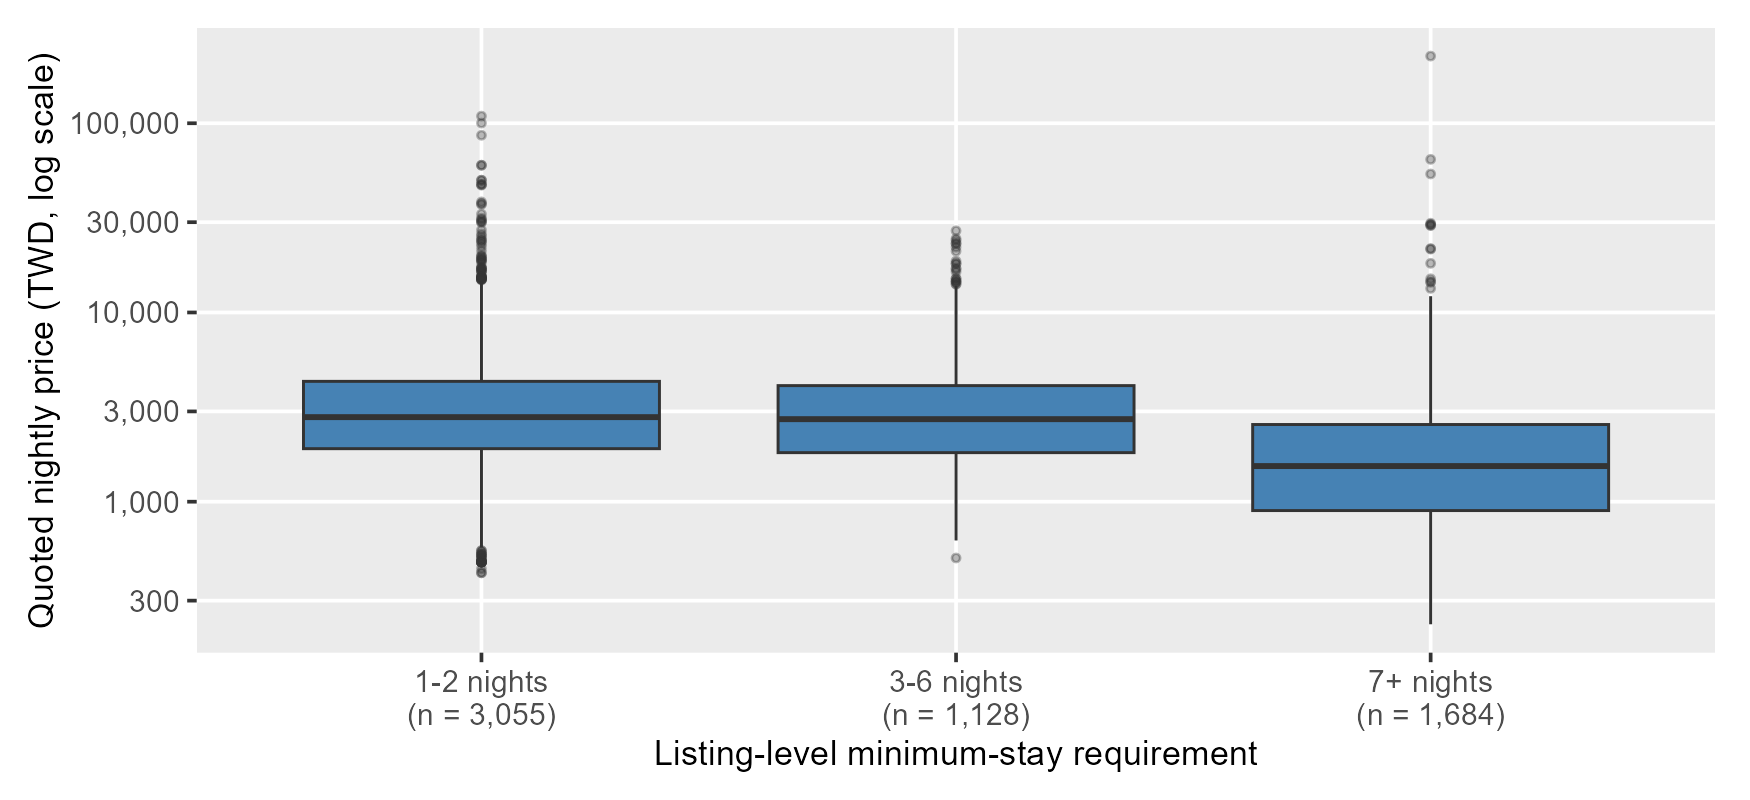
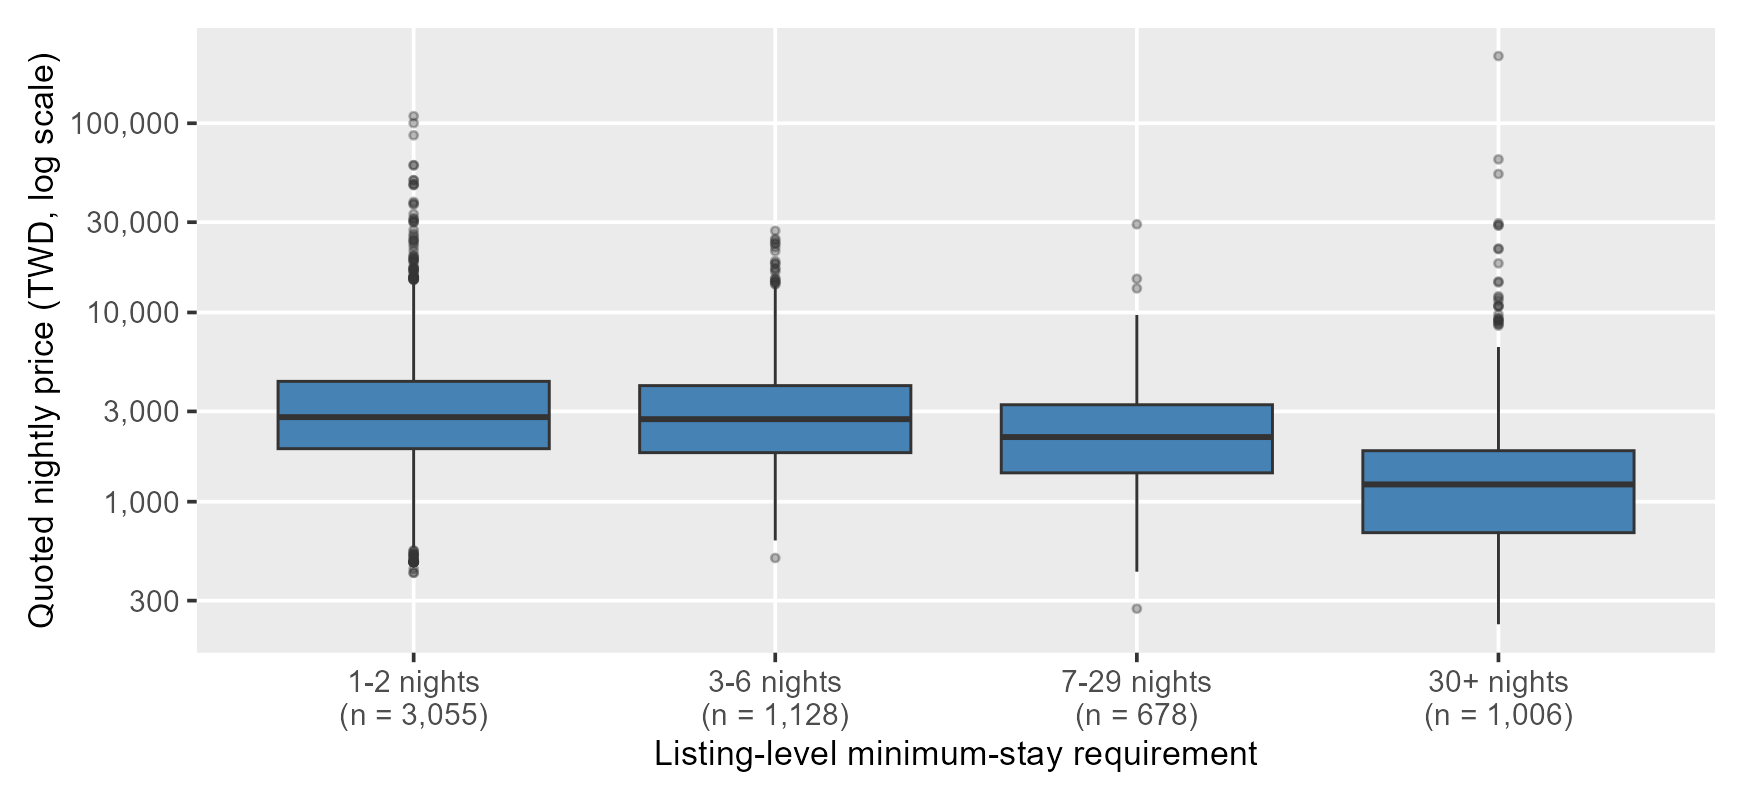
Refine minimum-stay groups and audit missing prices

diff --git a/data/processed/CODEBOOK.md b/data/processed/CODEBOOK.md
@@ -35,9 +35,9 @@ the minimum-stay rule is present.
 Figure 2 retains **5,867** listings with both a valid rule and a positive TWD price.
 There are **499 missing/unusable prices**, plus one additional listing with a
 valid price but a missing rule. No eligible positive prices are winsorized,
-trimmed, or dropped as outliers. The minimum-stay group counts in the data overview
-and summary CSV use 6,366 valid rules as denominator.
-
+trimmed, or dropped as outliers. Group shares in `figure_summary.csv` use the 6,366 valid minimum-stay
+rules as their denominator. Missing-price percentages in
+`stay_group_quality.csv` use the total listings within each group.
 ## calendar_monthly.csv
 
 Unit: a calendar month, including partial September months at the endpoints.
@@ -57,13 +57,39 @@ It summarizes all **2,323,955** original listing-date rows covering
 August 2027 price comparison in the proposal cannot be computed from it. No
 calendar price, seasonal premium, booked-night count, or occupancy outcome is imputed.
 
+## stay_group_quality.csv
+
+Unit: one minimum-stay group, with four rows. Generated by the
+`descriptive-summaries` chunk in the QMD.
+
+Figure 2 derives `detailed_stay_group` from `minimum_nights`, separating
+7-29 nights from 30+ nights. The stored `stay_group` column in
+`listings_subset.csv` retains its original three categories.
+
+| Column | Definition |
+|---|---|
+| detailed_stay_group | Ordered groups: 1-2, 3-6, 7-29, and 30+ nights. |
+| total_listings | All listings in the group, including those without usable prices. |
+| usable_prices | Listings with a finite, positive quoted nightly price in TWD. |
+| missing_prices | Listings without a usable price; equals total_listings minus usable_prices. |
+| missing_percent | 100 times missing_prices divided by total_listings. |
+| median_twd | Median quoted nightly price among listings with usable prices, in TWD/night. |
+
+One listing with a missing minimum-stay rule is excluded from this
+group-level audit. The four groups contain 6,366 listings, including
+5,867 usable prices and 499 missing/unusable prices.
+
+Missing-price percentages describe coverage. They do not establish
+whether excluded listings would have higher or lower prices.
+
 ## Other outputs
 
 - `audit.csv`: input row counts, date range, missing-value checks, duplicate counts,
   a calendar-price-presence flag, and input file MD5 fingerprints. Duplicate counts
   are zero after assertions in the preparation script; a duplicate causes failure.
 - `schema_note.txt`: records the raw calendar columns and missing price field.
-- `figure_summary.csv`: one row per minimum-stay group, with listing count,
+- `figure_summary.csv`: a retained summary of the original three groups
+  (1-2, 3-6, and 7+ nights), with listing count,
   share among valid rules, valid price count, median, and 25th/75th percentiles.
   Summary quantiles use R's default type 7 in original TWD units. Figure 2 uses
   `geom_boxplot()` and `scale_y_log10()`: ggplot2 computes its quartiles and

diff --git a/README.md b/README.md
@@ -19,6 +19,12 @@ It includes two figures built from the real September 28, 2026 Taipei release:
 1. Histogram of quoted nightly prices (5,868 listings).
 2. Boxplots of quoted prices by minimum-stay group (5,867 listings).
 
+Figure 2 separates minimum-stay requirements into 1-2, 3-6, 7-29,
+and 30+ nights. The accompanying
+`data/processed/stay_group_quality.csv` reports group sizes, usable
+prices, missing-price percentages, and median quoted prices.
+The report discusses the unequal price coverage across groups.
+
 Both use straightforward `ggplot2` styling, logarithmic price axes, and all eligible
 positive-price observations. The QMD uses `dplyr` pipelines for cleaning, filtering,
 grouping, and summaries.
